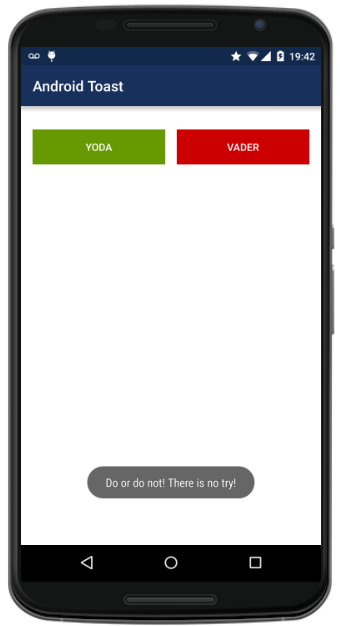
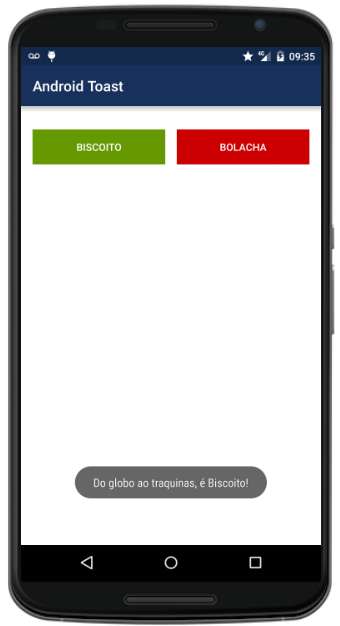
1.1.0

diff --git a/AndroidToast/app/src/androidTest/java/com/filipebarretto/androidtoast/InstrumentationTest.java b/AndroidToast/app/src/androidTest/java/com/filipebarretto/androidtoast/InstrumentationTest.java
@@ -1,35 +1,22 @@
 package com.filipebarretto.androidtoast;
 
-import org.hamcrest.Matcher;
-import org.junit.Before;
 import org.junit.Rule;
 import org.junit.Test;
-import org.junit.internal.builders.AllDefaultPossibilitiesBuilder;
 import org.junit.runner.RunWith;
 
-import android.support.test.espresso.Root;
 import android.support.test.rule.ActivityTestRule;
 import android.support.test.runner.AndroidJUnit4;
-import android.support.test.runner.AndroidJUnitRunner;
-import android.test.ActivityInstrumentationTestCase2;
 import android.test.suitebuilder.annotation.SmallTest;
-import android.util.Log;
-import android.widget.Toast;
 
 import com.filipebarretto.androidtoast.custom.ToastMatcher;
-
-import junit.framework.TestSuite;
 
 import java.util.concurrent.CountDownLatch;
 import java.util.concurrent.TimeUnit;
 
 import static android.support.test.espresso.Espresso.onView;
 import static android.support.test.espresso.action.ViewActions.click;
-import static android.support.test.espresso.assertion.ViewAssertions.doesNotExist;
 import static android.support.test.espresso.assertion.ViewAssertions.matches;
-import static android.support.test.espresso.core.deps.guava.base.CharMatcher.is;
 import static org.hamcrest.Matchers.not;
-import static android.support.test.espresso.matcher.RootMatchers.withDecorView;
 import static android.support.test.espresso.matcher.ViewMatchers.isDisplayed;
 import static android.support.test.espresso.matcher.ViewMatchers.withId;
 import static android.support.test.espresso.matcher.ViewMatchers.withText;
@@ -47,9 +34,9 @@ public class InstrumentationTest {
     @Test
     public void yodaButtonClick() throws Exception {
         lock.await(2000, TimeUnit.MILLISECONDS);
-        onView(withId(R.id.yodaButton)).perform(click());
+        onView(withId(R.id.biscoitoButton)).perform(click());
 
-        onView(withText(R.string.yoda_toast)).inRoot(new ToastMatcher())
+        onView(withText(R.string.biscoito_toast)).inRoot(new ToastMatcher())
                 .check(matches(isDisplayed()));
 
     }
@@ -57,9 +44,9 @@ public class InstrumentationTest {
     @Test
     public void vaderButtonClick() throws Exception {
         lock.await(2000, TimeUnit.MILLISECONDS);
-        onView(withId(R.id.vaderButton)).perform(click());
+        onView(withId(R.id.bolachaButton)).perform(click());
 
-        onView(withText(R.string.vader_toast)).inRoot(new ToastMatcher())
+        onView(withText(R.string.bolacha_toast)).inRoot(new ToastMatcher())
                 .check(matches(isDisplayed()));
 
     }

diff --git a/AndroidToast/app/src/main/java/com/filipebarretto/androidtoast/MainActivity.java b/AndroidToast/app/src/main/java/com/filipebarretto/androidtoast/MainActivity.java
@@ -2,57 +2,37 @@ package com.filipebarretto.androidtoast;
 
 import android.support.v7.app.AppCompatActivity;
 import android.os.Bundle;
-import android.util.Log;
 import android.view.View;
 import android.widget.Button;
 import android.widget.Toast;
 
-import com.google.firebase.FirebaseApp;
-import com.google.firebase.analytics.FirebaseAnalytics;
-
 public class MainActivity extends AppCompatActivity {
 
-    private FirebaseAnalytics mFirebaseAnalytics;
-
-    private Button yodaButton;
-    private Button vaderButton;
+    private Button mBiscoitoButton;
+    private Button mBolachaButton;
 
     @Override
     protected void onCreate(Bundle savedInstanceState) {
         super.onCreate(savedInstanceState);
         setContentView(R.layout.activity_main);
 
-        // Obtain the FirebaseAnalytics instance.
-        mFirebaseAnalytics = FirebaseAnalytics.getInstance(this);
+        mBiscoitoButton = (Button) findViewById(R.id.biscoitoButton);
+        mBolachaButton = (Button) findViewById(R.id.bolachaButton);
 
-        yodaButton = (Button) findViewById(R.id.yodaButton);
-        vaderButton = (Button) findViewById(R.id.vaderButton);
-
-        Log.i("TEST", String.valueOf(Toast.LENGTH_SHORT));
-
-        yodaButton.setOnClickListener(new View.OnClickListener() {
+        mBiscoitoButton.setOnClickListener(new View.OnClickListener() {
             @Override
             public void onClick(View v) {
-                customEvent("y001", "YODA");
-                Toast.makeText(MainActivity.this, getString(R.string.yoda_toast), Toast.LENGTH_SHORT).show();
+                Toast.makeText(MainActivity.this, getString(R.string.biscoito_toast), Toast.LENGTH_SHORT).show();
             }
         });
 
-        vaderButton.setOnClickListener(new View.OnClickListener() {
+        mBolachaButton.setOnClickListener(new View.OnClickListener() {
             @Override
             public void onClick(View v) {
-                customEvent("v001", "VADER");
-                Toast.makeText(MainActivity.this, getString(R.string.vader_toast), Toast.LENGTH_SHORT).show();
+                Toast.makeText(MainActivity.this, getString(R.string.bolacha_toast), Toast.LENGTH_SHORT).show();
             }
         });
 
-    }
-
-    private void customEvent(String id, String name) {
-        Bundle bundle = new Bundle();
-        bundle.putString(FirebaseAnalytics.Param.ITEM_ID, id);
-        bundle.putString(FirebaseAnalytics.Param.ITEM_NAME, name);
-        mFirebaseAnalytics.logEvent("click", bundle);
     }
 
 
